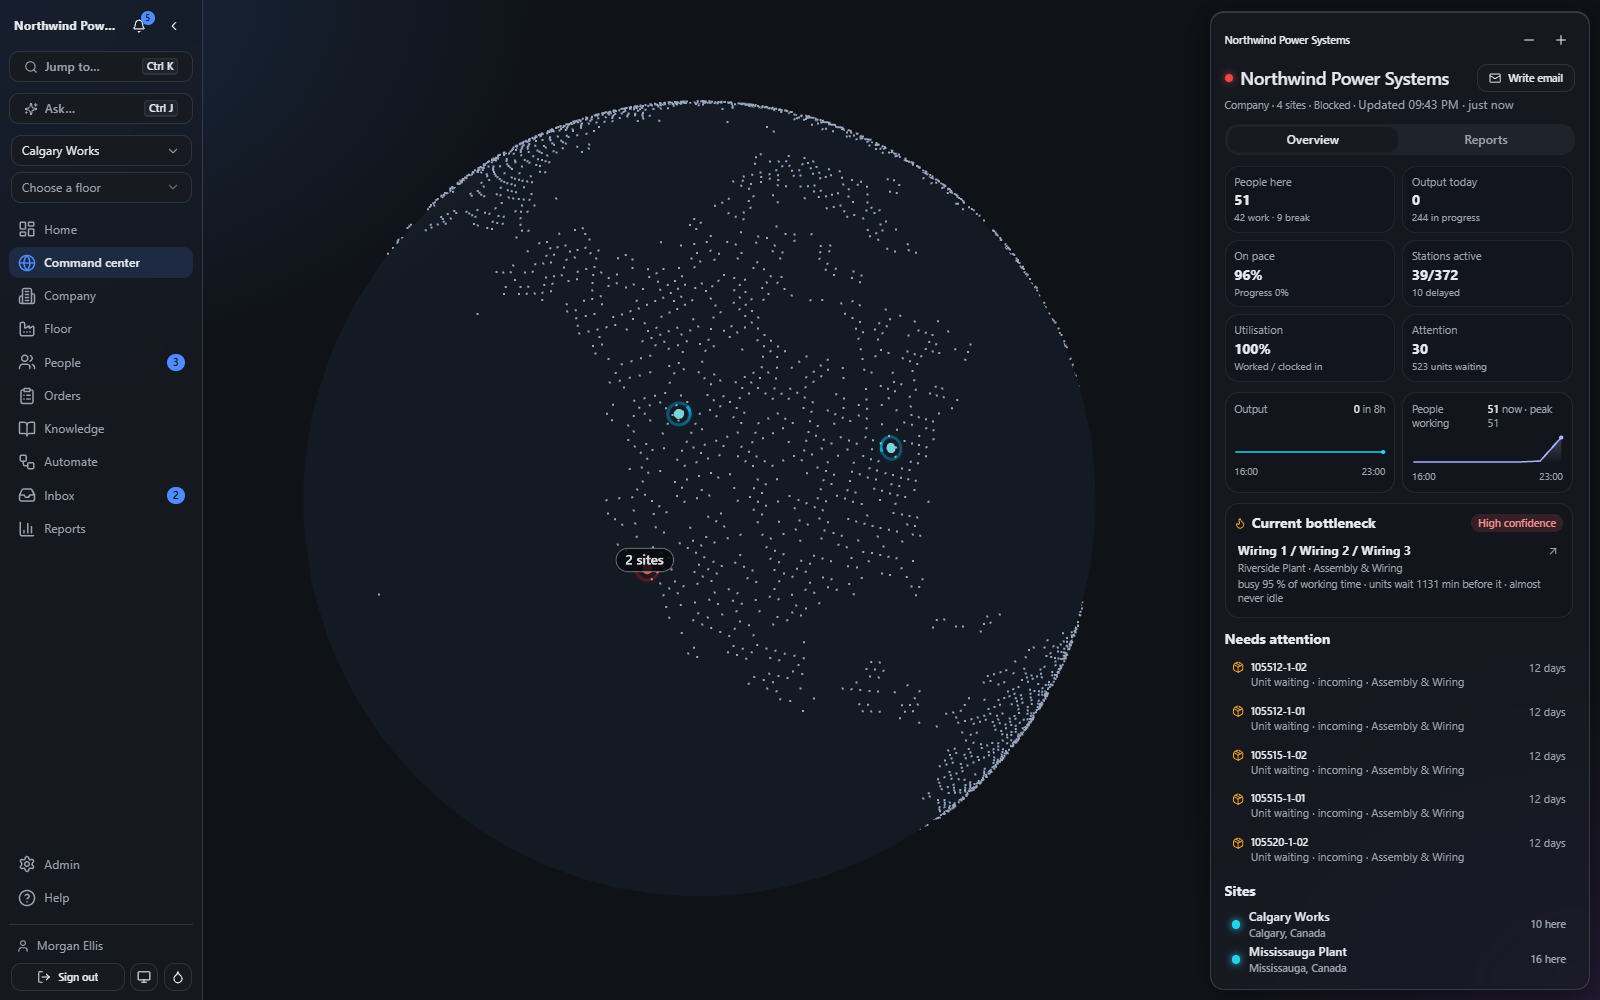
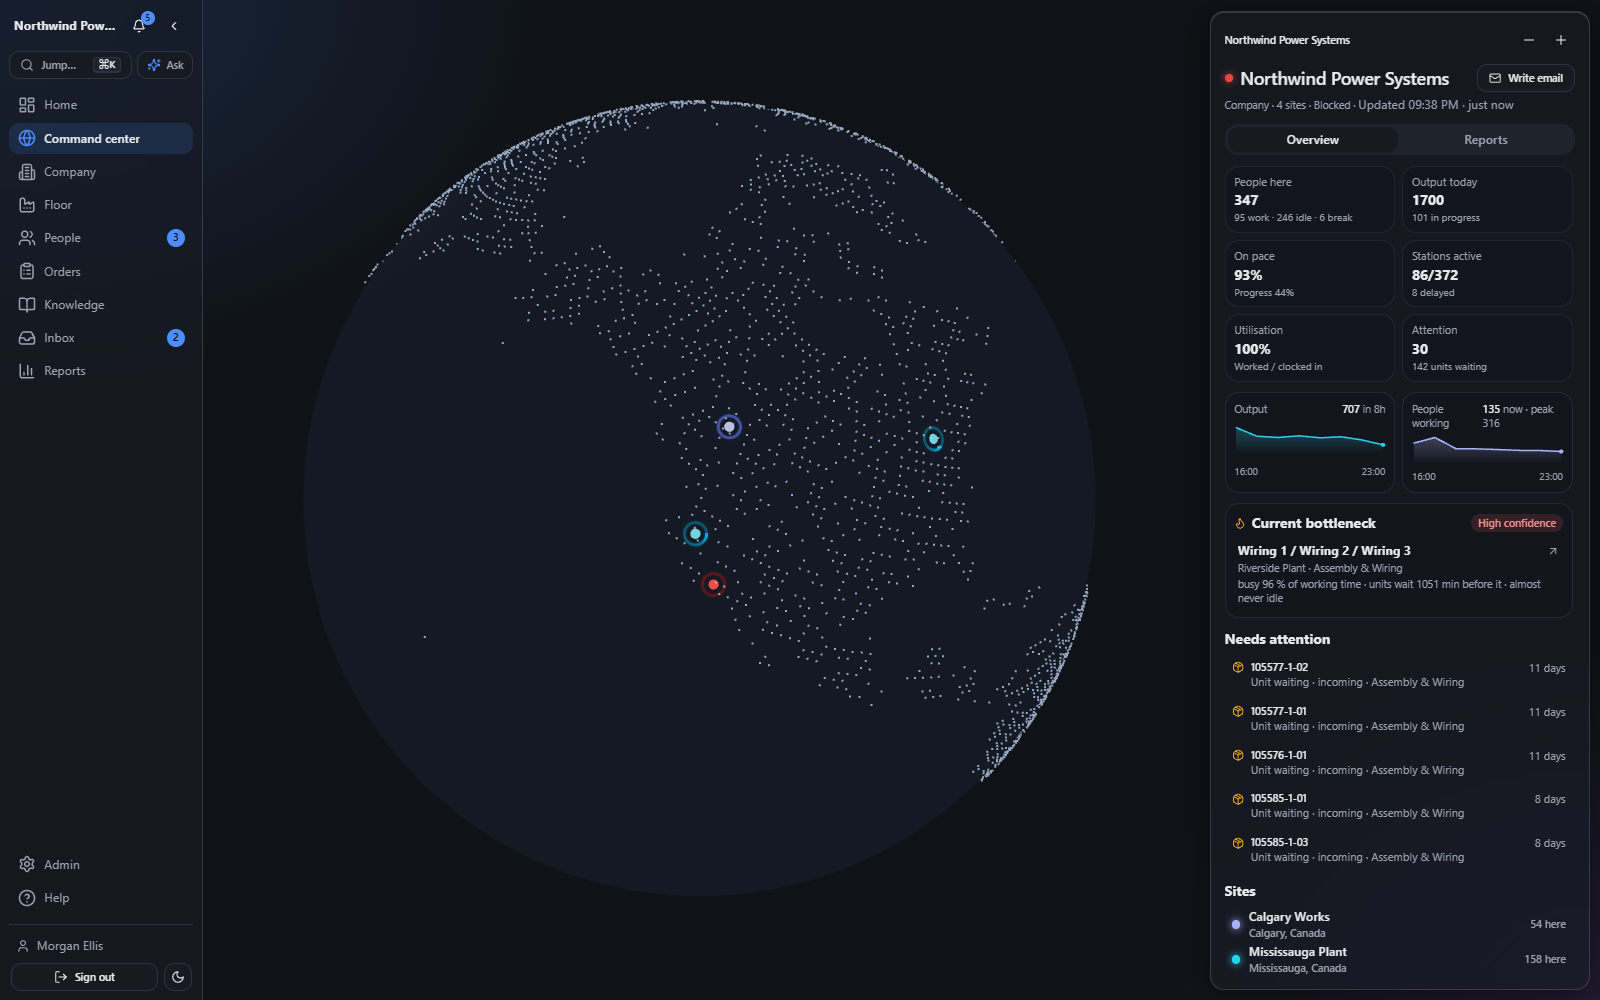
Refresh the Northwind screenshots and tighten the showcase copy
The Command Center globe now shows four plants in four cities and the
company view lists Reno Test Center. Captions and alt text describe what
is on the new screenshots; "SQL-checked" becomes "checked against your
floor data".

diff --git a/src/components/use-cases.tsx b/src/components/use-cases.tsx
@@ -25,9 +25,9 @@ type ShowcaseBlock = {
 const SHOWCASES: ShowcaseBlock[] = [
   {
     tag: "1 · Modern UI & Executive Command Center",
-    title: "Every site, every floor — one futuristic glass Command Center",
+    title: "Every site, every floor — one live Command Center",
     summary:
-      "Zoom seamlessly from a 3D dot-matrix globe of all sites into stacked translucent floor plates and live bays, with 2-second KPIs and AI-drafted status emails.",
+      "Start on a globe with a ring for every plant, then zoom into one site, its stacked floors and a live bay. The numbers follow the view every 2 seconds, and a status email drafts itself from them.",
     tabs: [
       {
         id: "command-globe",
@@ -36,11 +36,11 @@ const SHOWCASES: ShowcaseBlock[] = [
         badge: "● Live pulse · 2s",
         badgeTone: "live",
         src: "/screenshots/command-globe.png",
-        alt: "FloorOS Command Center 3D dot-matrix globe with floating glass Details window showing live multi-site KPIs and bottleneck status",
+        alt: "FloorOS Command Center globe with a live ring on each of four plants in Calgary, Reno, Riverside and Mississauga, beside the Details window with company KPIs and the current bottleneck",
         caption:
-          "3D dot-matrix globe with floating glass KPIs, 8-hour sparklines, active bottleneck badge and AI Write email (demo plant data).",
+          "Four plants in two countries on one globe: a live ring per site, company KPIs with 8-hour sparklines, the current bottleneck and AI Write email (demo plant data).",
         highlights: [
-          "Live site status rings across regions",
+          "One live status ring per plant",
           "2-second KPIs & 8-hour sparklines",
           "AI-drafted email via Google / Microsoft",
         ],
@@ -68,9 +68,9 @@ const SHOWCASES: ShowcaseBlock[] = [
         badge: "8 departments · Live",
         badgeTone: "ok",
         src: "/screenshots/company-live.png",
-        alt: "FloorOS Company Live View showing 8-department flow strip, AI operational advisor suggestions, 4 sites across time zones, and ranked Needs attention list",
+        alt: "FloorOS Company Live View showing units per department from Suppliers to Wrap and shipping, AI advisor suggestions, four sites with their local time and headcount, and a ranked Needs attention list with late supplier lines",
         caption:
-          "Company-wide 8-department flow strip, live AI suggestions, per-site shift clocks and late supplier alerts (demo plant data).",
+          "Units per department in route order, live AI suggestions, each plant with its local time and who is here, and late supplier lines ranked by age (demo plant data).",
         highlights: [
           "All 8 departments in route order",
           "Local shift clocks per site",
@@ -163,13 +163,13 @@ const SHOWCASES: ShowcaseBlock[] = [
     tag: "4 · Live Dashboard Statistics & Analytics",
     title: "Pinpoint bottlenecks with verified AI root-cause & before/after proof",
     summary:
-      "Move past gut feel. FloorOS identifies the limiting step over days and weeks, explains why with SQL-checked figures, and measures before-and-after improvements.",
+      "Move past gut feel. FloorOS identifies the limiting step over days and weeks, explains why with figures checked against your floor data, and measures before-and-after improvements.",
     tabs: [
       {
         id: "bottlenecks-ai",
         label: "Bottleneck & AI Root-Cause",
         crumb: "FloorOS Analytics · Bottlenecks · Assembly & Wiring",
-        badge: "Figures SQL-checked",
+        badge: "Figures checked",
         badgeTone: "ok",
         src: "/screenshots/bottlenecks-ai.png",
         alt: "FloorOS Bottlenecks report showing Wiring 1/2/3 bottleneck badge, AI Why and what to do causes and 4 Suggested fixes with Start improvement buttons",
@@ -177,7 +177,7 @@ const SHOWCASES: ShowcaseBlock[] = [
           "Bottlenecks report naming the limiting step with confidence, AI root-cause explanation and concrete Suggested fixes (demo plant data).",
         highlights: [
           "Limiting step named with confidence",
-          "Every AI figure verified against SQL",
+          "Every AI figure checked against floor data",
           "Start a tracked improvement in 1 click",
         ],
       },
